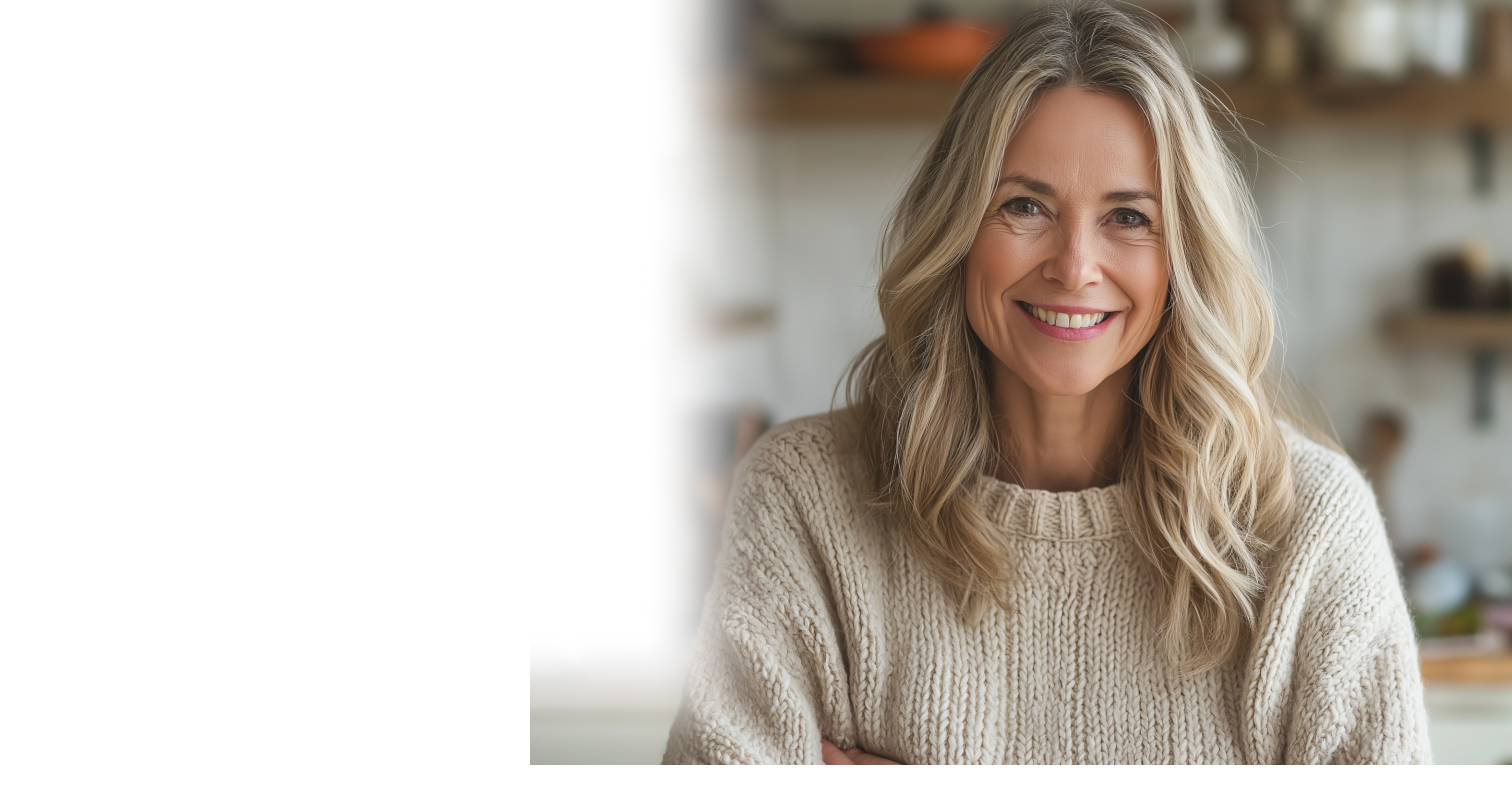
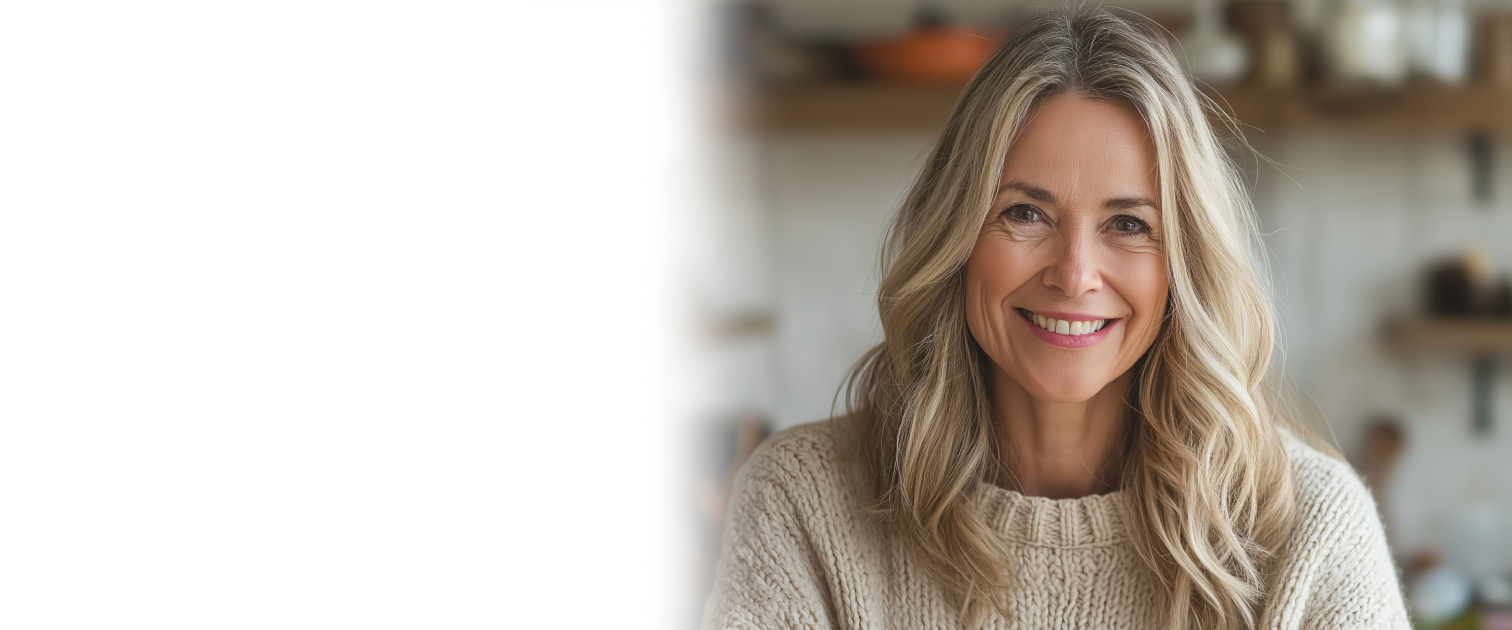
carousel working

diff --git a/app/components/Hero/page.tsx b/app/components/Hero/page.tsx
@@ -1,0 +1,53 @@
+'use client'
+import React, { useState, useEffect } from 'react';
+import Image from "next/image";
+import Link from 'next/link'
+import './styles.css';
+
+interface CarouselProps {
+    items: any[]; // Replace 'any' with the type of your items
+    interval?: number; // Time in milliseconds between transitions
+}
+
+const Hero: React.FC<CarouselProps> = ({items, interval = 5000}) => {
+    const [activeIndex, setActiveIndex] = useState(0);
+
+    useEffect(() => {
+        const timer = setInterval(() => {
+          setActiveIndex((prevIndex) => (prevIndex + 1) % items.length);
+        }, interval);
+    
+        return () => clearInterval(timer);
+      }, [items, interval]);
+
+    return (
+        <div className="flex w-screen justify-left">
+            <div className="flex flex-row hero-content-container w-screen">
+                <div style={{zIndex: '1000'}} className="flex flex-col xl:basis-1/3 lg:basis-1/3 md:basis-1/2 sm:basis-1/2 xs:basis-1/2 mt-16 lg:mx-20 md:mx-20 sm:mx-10 xs:mx-10">
+                    <div className="list-inside list-decimal lg:text-4xl md:text-4xl sm:text-3xl xs:text-2xl font-bold sm:text-left font-[family-name:var(--font-geist-mono)] mb-5 dark:text-sky-700">
+                        <h1>
+                            You deserve to be free from <span className="dark:text-sky-500">unwanted habits</span>
+                        </h1>
+                    </div>
+                    <Link
+                        className="rounded-full border border-solid border-black/[.08] bg-amber-500 light:border-white/[.145] transition-colors flex items-center justify-center hover:bg-amber-600 hover:border-transparent text-sm sm:text-base h-10 sm:h-12 px-4 sm:px-5 sm:min-w-44"
+                        href="/how"
+                    >
+                        How it works
+                    </Link>
+                </div>
+                {items.map((item, index) => (
+                <div
+                    key={index}
+                    style={{position: 'absolute', zIndex: 1}}
+                    className={`carousel-item ${index === activeIndex ? 'active' : 'inacticve'}`}
+                >
+                    <div style={{position: 'absolute', zIndex: 1}} className={`flex w-screen justify-left ${items[index].image} w-[500px] h-[700px] bg-no-repeat bg-center bg-cover`} />
+                </div>
+                ))}
+            </div>
+        </div>
+    );
+};
+
+export default Hero;

diff --git a/app/components/HabitsContainer/page.tsx b/app/components/HabitsContainer/page.tsx
@@ -1,0 +1,32 @@
+'use client'
+import React, {useState} from 'react';
+import SmokingIcon from '../../../public/images/svgs/SmokingIcon';
+import FastFoodIcon from '../../../public/images/svgs/FastFoodIcon';
+import CoffeeIcon from '../../../public/images/svgs/CoffeeIcon';
+import './styles.css';
+
+const HabitsContainer = () => {
+    return (
+        <div className='container'>
+            <div className="flex xs:flex-col sm:flex-col md:flex-col lg:flex-row xl:flex-row hero-content-container w-screen">
+                <div className="flex flex-col items-center justify-center dark:bg-white basis-1/3 rounded-3xl border mx-5 p-10">
+                    <SmokingIcon />
+                    <h2 className="list-inside list-decimal lg:text-2xl md:text-xl sm:text-l xs:text-2xl font-bold sm:text-left font-[family-name:var(--font-geist-mono)] mb-5 dark:text-sky-700 mt-5">Smoking</h2>
+                    <p className="font-[family-name:var(--font-geist-mono)]">Do you struggle with quitting? A few sessions show high success rate to finish for good.</p>
+                </div>
+                <div className="flex flex-col items-center justify-center dark:bg-white basis-1/3 rounded-3xl border mx-5 p-10">
+                    <FastFoodIcon />
+                    <h2 className="list-inside list-decimal lg:text-2xl md:text-xl sm:text-l xs:text-2xl font-bold sm:text-left font-[family-name:var(--font-geist-mono)] mb-5 dark:text-sky-700 mt-5">Over-eating</h2>
+                    <p className="font-[family-name:var(--font-geist-mono)]">Hard to resist grabbing something out of the fridge when you feel anxious?  A few sessions show high success rate to finish for good.</p>
+                </div>
+                <div className="flex flex-col items-center justify-center dark:bg-white basis-1/3 rounded-3xl border mx-5 p-10">
+                    <CoffeeIcon />
+                    <h2 className="list-inside list-decimal lg:text-2xl md:text-xl sm:text-l xs:text-2xl font-bold sm:text-left font-[family-name:var(--font-geist-mono)] mb-5 dark:text-sky-700 mt-5">Caffeine</h2>
+                    <p className="font-[family-name:var(--font-geist-mono)]">Do you struggle sleeping well and feeling anxious? Might be time to give up or lighten up caffeine.</p>
+                </div>
+            </div>
+        </div>
+    );
+};
+
+export default HabitsContainer;

diff --git a/public/images/svgs/FastFoodIcon.jsx b/public/images/svgs/FastFoodIcon.jsx
@@ -2,7 +2,7 @@ import React from 'react';
 
 const FastFoodIcon = () => (
     <svg width="100" height="101" viewBox="0 0 100 101" fill="none" xmlns="http://www.w3.org/2000/svg">
-        <g clip-path="url(#clip0_25_121)">
+        <g clipPath="url(#clip0_25_121)">
             <path d="M70.0326 24.0514C69.8912 23.9036 69.7217 23.7859 69.5342 23.7056C69.3467 23.6253 69.1451 23.5839 68.9413 23.584H31.0581C30.8531 23.584 30.6502 23.6259 30.4618 23.7072C30.2733 23.7885 30.1032 23.9076 29.9617 24.0571C29.8202 24.2066 29.7103 24.3835 29.6386 24.577C29.5669 24.7706 29.535 24.9768 29.5447 25.1832L30.5497 46.5186C30.5626 46.7914 30.6478 47.0557 30.7964 47.284C30.9451 47.5123 31.1518 47.6962 31.3951 47.8166L66.8392 65.3673C67.047 65.4703 67.2756 65.5238 67.5072 65.5238C67.8993 65.524 68.2763 65.3709 68.5587 65.0967C68.8411 64.8225 69.0069 64.4486 69.0212 64.0537L70.4554 25.1676C70.463 24.9625 70.4295 24.7579 70.3568 24.5661C70.2841 24.3743 70.1739 24.1993 70.0326 24.0514Z" fill="#EB5764"/>
             <path opacity="0.1" d="M70.0326 24.0514C69.8912 23.9036 69.7217 23.7859 69.5342 23.7056C69.3467 23.6253 69.1451 23.5839 68.9413 23.584H31.0581C30.8531 23.584 30.6502 23.6259 30.4618 23.7072C30.2733 23.7885 30.1032 23.9076 29.9617 24.0571C29.8202 24.2066 29.7103 24.3835 29.6386 24.577C29.5669 24.7706 29.535 24.9768 29.5447 25.1832L29.739 29.3098C29.739 29.3098 55.2554 26.9599 55.304 37.3827L55.5218 59.7634L66.839 65.3673C67.0468 65.4703 67.2754 65.5238 67.507 65.5238C67.8991 65.524 68.2761 65.3709 68.5585 65.0967C68.8409 64.8225 69.0067 64.4486 69.021 64.0537L70.4552 25.1676C70.4629 24.9625 70.4294 24.7579 70.3568 24.5661C70.2841 24.3743 70.1739 24.1993 70.0326 24.0514Z" fill="black"/>
             <path d="M50.016 18.9603L46.8855 7.18691C46.1336 4.35911 44.192 2.04856 41.5588 0.847918C38.9806 -0.32753 36.0513 -0.278717 33.5215 0.981563C29.3838 3.04332 19.9986 8.53478 19.601 8.76743C17.434 10.0364 16.6951 12.8453 17.9539 15.0291C19.2129 17.2129 22.0006 17.9571 24.1691 16.6881C24.2625 16.6334 33.6759 11.1244 37.5511 9.19376C37.5912 9.17388 38.0091 9.12625 38.1043 9.55789L40.8033 19.7088L50.016 18.9603Z" fill="#E2F2F6"/>

diff --git a/public/images/svgs/CoffeeIcon.jsx b/public/images/svgs/CoffeeIcon.jsx
@@ -2,7 +2,7 @@ import React from 'react';
 
 export const CoffeeIcon = () => (
     <svg width="100" height="111" viewBox="0 0 100 111" fill="none" xmlns="http://www.w3.org/2000/svg">
-        <g clip-path="url(#clip0_25_151)">
+        <g clipPath="url(#clip0_25_151)">
             <path d="M12.3101 54.4745C10.0575 53.144 7.99491 51.4518 6.18945 49.4528C3.398 46.4572 1.41069 42.6636 0.448068 38.493C-0.895585 32.3403 0.841584 25.862 4.99979 21.5187C7.46197 18.544 11.0746 17.0775 14.6894 17.5854C19.1894 18.2536 23.086 21.9578 25.8101 25.4711L20.7239 33.6432C19.4154 31.3567 17.6594 29.4252 15.586 27.9915C14.5341 27.3379 13.2815 27.2079 12.1382 27.6335C10.995 28.0592 10.0677 29.0008 9.586 30.2254C6.7929 36.0681 10.7757 42.1017 15.1894 45.2713L12.3101 54.4745Z" fill="#C03A2B"/>
             <path d="M79.9827 61.5774C75.8448 65.0715 69.9138 67.1718 62.3448 66.7327C56.8448 66.4081 53.6896 65.0333 51.8793 62.9521C46.9138 57.2813 52.0517 46.5124 46.7758 38.684C42.6834 32.9206 36.2299 29.8505 29.6379 30.5309C28.1379 26.4639 27.7931 23.2371 28.8276 21.3468C28.8276 21.3277 28.8276 21.3277 28.8448 21.3086V21.2895C28.975 21.0695 29.1252 20.8647 29.2931 20.6785C33.6724 15.8287 50.3103 26.4067 66.4827 44.2975C71.3702 49.6718 75.8831 55.4483 79.9827 61.5774Z" fill="#BDC3C7"/>
             <path d="M87.2069 85.9983C80.3966 92.4902 46.4827 122.066 21.3621 94.2468C10.0689 81.7595 9.2586 67.2864 12.3103 54.4745C13.0621 51.3317 14.0245 48.2555 15.1896 45.2713C16.7708 41.2482 18.6207 37.3614 20.7241 33.6432C22.5172 30.4355 24.3103 27.6478 25.8103 25.4711C27.0517 23.6763 28.0862 22.2824 28.8276 21.3468C27.7931 23.2371 28.1379 26.464 29.6379 30.5309C32.6379 38.7221 40.2759 50.3884 50.6207 61.8447C51 62.2647 51.3793 62.6657 51.7586 63.0858C66.8965 79.5064 82.1897 89.3588 87.2069 85.9983Z" fill="#E64C3C"/>

diff --git a/public/images/svgs/SmokingIcon.jsx b/public/images/svgs/SmokingIcon.jsx
@@ -2,7 +2,7 @@ import React from 'react';
 
 const SmokingIcon = () => (
     <svg width="100" height="100" viewBox="0 0 100 100" fill="none" xmlns="http://www.w3.org/2000/svg">
-        <g clip-path="url(#clip0_25_69)">
+        <g clipPath="url(#clip0_25_69)">
             <path d="M50 29.0736C50 24.0578 45.9338 19.9916 40.918 19.9916H33.5938C36.9069 19.9916 39.5926 17.3059 39.5926 13.9928C39.5926 10.6797 36.9069 7.99394 33.5938 7.99394H59.3559C61.5233 7.99394 63.369 6.30859 63.4459 4.14277C63.527 1.86875 61.7076 0 59.4518 0H17.0254C14.8582 0 13.0123 1.68516 12.9354 3.85117C12.8543 6.125 14.6738 7.99394 16.9297 7.99394H7.44123C4.17248 7.99394 1.40939 10.5568 1.31994 13.8242C1.22697 17.2143 3.94728 19.9916 7.31643 19.9916H25.8067C22.9248 19.9916 20.5977 22.3674 20.6774 25.2672C20.7539 28.0621 23.1174 30.2543 25.9135 30.2543H40.5668C41.7856 30.2543 42.7737 31.2424 42.7737 32.4611V60.3941L50.0002 53.1676V29.0736H50Z" fill="#757575"/>
             <path d="M51.265 68.4756L75.9414 43.7994C76.366 43.3748 76.366 42.6863 75.9414 42.2617L69.8867 36.207C69.0787 35.399 67.7689 35.399 66.9609 36.207L40.7582 62.4096L51.265 68.4756Z" fill="#E0E0E0"/>
             <path d="M66.9608 36.2068L64.5174 38.6502L68.8977 43.0305L46.3121 65.616L51.2651 68.4756L75.9414 43.7994C76.366 43.3748 76.366 42.6863 75.9414 42.2617L69.8867 36.207C69.0787 35.399 67.7688 35.399 66.9608 36.2068Z" fill="#BDBDBD"/>

diff --git a/public/images/svgs/RiverLogo.jsx b/public/images/svgs/RiverLogo.jsx
@@ -2,7 +2,7 @@ import React from 'react';
 
 const RiverLogo = () => (
     <svg width="187" height="77" viewBox="0 0 187 77" fill="none" xmlns="http://www.w3.org/2000/svg">
-        <g clip-path="url(#clip0_61_14)">
+        <g clipPath="url(#clip0_61_14)">
             <path d="M54.535 62.1754C59.1877 56.7531 62 49.7053 62 42C62 24.8792 48.1208 11 31 11C15.6865 11 2.96812 22.1042 0.453247 36.6995C0.478556 36.7773 8.75374 62.1754 54.535 62.1754Z" fill="#085D9B"/>
             <path d="M35.9162 35.5927C35.9162 29.7488 37.689 24.319 40.7261 19.8117C40.7261 19.8117 9.41153 22.9354 0.205017 45.5624C0.205259 45.565 0.205623 45.5674 0.205986 45.5698C0.217611 45.5875 0.270166 45.6672 0.365708 45.8016C1.96584 48.0541 17.3972 73.3633 50.9883 65.6931C52.2624 64.617 53.4492 63.4408 54.5351 62.1754C43.6742 58.2292 35.9162 47.8172 35.9162 35.5927Z" fill="#64B6EC"/>
             <path d="M36.2508 31.2333C36.8976 27.0533 38.4596 23.1756 40.7263 19.8119C40.7263 19.8119 9.41165 22.9355 0.205139 45.5626C0.205381 45.5651 0.205745 45.5675 0.206108 45.57C0.217733 45.5876 0.270288 45.6673 0.365831 45.8017C0.955557 46.6317 3.42417 50.5934 7.98759 54.8817C11.1266 41.8659 22.4771 32.0537 36.2508 31.2333Z" fill="#4B9FDB"/>

diff --git a/app/page.tsx b/app/page.tsx
@@ -1,13 +1,35 @@
-import Image from "next/image";
-import Hero from "./components/Hero";
-import HabitsContainer from "./components/HabitsContainer";
-// import Layout from './layout';
+import Hero from "./components/Hero/page";
+import HabitsContainer from "./components/HabitsContainer/page";
 
 export default function Home() {
+
+  const items = [
+    {
+      title: "You deserve to be free from unwanted habits",
+      image: "bg-[url('/images/hero1.jpg')]",
+      link: "/how",
+    },
+    {
+      title: "You deserve to be free from unwanted habits",
+      image: "bg-[url('/images/hero2.jpg')]",
+      link: "/how",
+    },
+    {
+      title: "You deserve to be free from unwanted habits",
+      image: "bg-[url('/images/hero3.jpg')]",
+      link: "/how",
+    },
+    {
+      title: "You deserve to be free from unwanted habits",
+      image: "bg-[url('/images/hero4.jpg')]",
+      link: "/how",
+    },
+  ]
+
   return (
     <div className="w-screen">
       <main className="flex flex-col items-center sm:items-center">
-        <Hero />
+        <Hero items={items} />
         <HabitsContainer />
       </main>
     </div>

diff --git a/app/navbar.tsx b/app/navbar.tsx
@@ -23,7 +23,7 @@ const Navbar = () => {
             <button data-collapse-toggle="navbar-default" type="button" className="inline-flex items-center p-2 w-10 justify-center text-sm text-white rounded-lg md:hidden hover:bg-white focus:outline-none focus:ring-2 focus:bg-sky-600 dark:text-gray-400 dark:hover:bg-sky-600 dark:focus:bg-sky-600" aria-controls="navbar-default" aria-expanded="false">
                 <span className="sr-only">Open main menu</span>
                 <svg className="w-5 h-5" aria-hidden="true" xmlns="http://www.w3.org/2000/svg" fill="none" viewBox="0 0 17 14">
-                    <path stroke="white" stroke-linecap="round" stroke-linejoin="round" stroke-width="2" d="M1 1h15M1 7h15M1 13h15"/>
+                    <path stroke="white" strokeLinecap="round" strokeLinejoin="round" strokeWidth="2" d="M1 1h15M1 7h15M1 13h15"/>
                 </svg>
             </button>
             <div className="hidden w-full md:block md:w-auto" id="navbar-default">

diff --git a/app/how/api/route.ts b/app/how/api/route.ts
@@ -19,3 +19,15 @@ export async function POST(request: Request) {
         status: 201
     })
 }
+
+export async function PUT(request: Request) {
+    const testimonial = await request.json();
+    const index = testimonials.findIndex(t => t.id === testimonial.id);
+    testimonials[index] = testimonial;
+    return new Response(JSON.stringify(testimonial), {
+        headers: {
+            "Content-Type": "application/json", 
+        },
+        status: 200
+    })
+}

diff --git a/app/components/HabitsContainer/styles.css b/app/components/HabitsContainer/styles.css
@@ -1,0 +1,21 @@
+.container {
+    display: flex;
+    margin-top: 240px;
+    justify-content: center;
+    z-index: 1000;
+}
+
+
+@media only screen and (min-width: 768px) {
+    .container {
+      /* background-color: blue; */
+      margin-top: 150px;
+    }
+  }
+
+  @media only screen and (min-width: 1024px) {
+    .container {
+        /* background-color: red; */
+        margin-top: 200px;
+      }
+  }

diff --git a/app/components/Hero/styles.css b/app/components/Hero/styles.css
@@ -1,0 +1,14 @@
+.carousel-item {
+    visibility: hidden;
+    opacity: 0;
+    transition: opacity 1000ms ease-in;
+}
+
+.active {
+  visibility: visible;
+  opacity: 1;
+}
+
+.inactive {
+    transition: opacity 5000ms ease-out;
+  }
